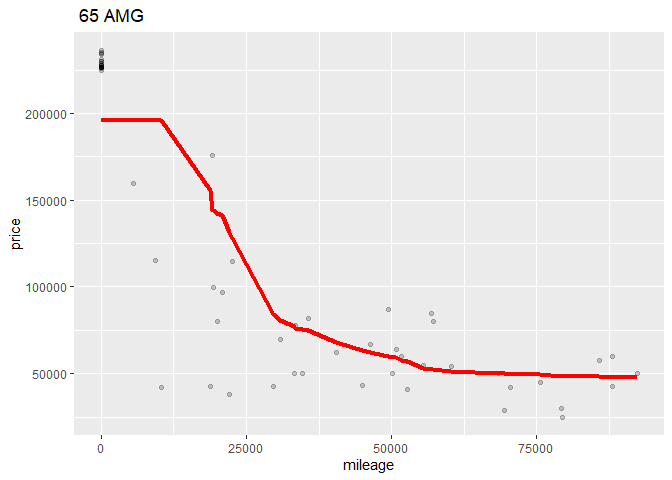
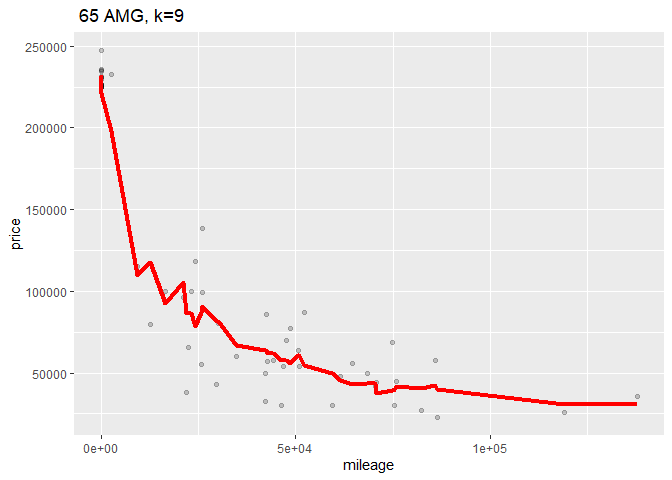
HW1

diff --git a/Assignment-1.md b/Assignment-1.md
@@ -113,20 +113,29 @@ so we get 95 percentile height of each event and overall separately:
     ## 95% 
     ## 183
 
-    ## # A tibble: 27 x 2
-    ##    event                                ninety_fifth_percentile_height
-    ##    <chr>                                                         <dbl>
-    ##  1 Athletics Women's Shot Put                                     192.
-    ##  2 Athletics Women's Heptathlon                                   189.
-    ##  3 Athletics Women's Discus Throw                                 188.
-    ##  4 Athletics Women's High Jump                                    188 
-    ##  5 Athletics Women's Triple Jump                                  187.
-    ##  6 Athletics Women's Javelin Throw                                186.
-    ##  7 Athletics Women's Hammer Throw                                 184.
-    ##  8 Athletics Women's Pole Vault                                   183 
-    ##  9 Athletics Women's 400 metres Hurdles                           181.
-    ## 10 Athletics Women's Long Jump                                    181.
-    ## # ... with 17 more rows
+    ## # A tibble: 20 x 2
+    ##    event                                       ninety_fifth_percentile_height
+    ##    <chr>                                                                <dbl>
+    ##  1 Athletics Women's Shot Put                                            192.
+    ##  2 Athletics Women's Heptathlon                                          189.
+    ##  3 Athletics Women's Discus Throw                                        188.
+    ##  4 Athletics Women's High Jump                                           188 
+    ##  5 Athletics Women's Triple Jump                                         187.
+    ##  6 Athletics Women's Javelin Throw                                       186.
+    ##  7 Athletics Women's Hammer Throw                                        184.
+    ##  8 Athletics Women's Pole Vault                                          183 
+    ##  9 Athletics Women's 400 metres Hurdles                                  181.
+    ## 10 Athletics Women's Long Jump                                           181.
+    ## 11 Athletics Women's 200 metres                                          180 
+    ## 12 Athletics Women's 400 metres                                          180 
+    ## 13 Athletics Women's 100 metres                                          180.
+    ## 14 Athletics Women's Pentathlon                                          179 
+    ## 15 Athletics Women's 4 x 400 metres Relay                                178 
+    ## 16 Athletics Women's 3,000 metres Steeplechase                           177.
+    ## 17 Athletics Women's 100 metres Hurdles                                  176 
+    ## 18 Athletics Women's 4 x 100 metres Relay                                176 
+    ## 19 Athletics Women's 800 metres                                          176.
+    ## 20 Athletics Women's 80 metres Hurdles                                   175.
 
 The 95th percentile of heights for female competitors across all
 Athletics events is 183
@@ -144,6 +153,24 @@ standard deviation
 
 partc average age of Olympic swimmers changed over time
 
+according to data frame, we can also see this trend
+
+    ## # A tibble: 46 x 3
+    ## # Groups:   year [28]
+    ##     year sex   age_avg
+    ##    <int> <chr>   <dbl>
+    ##  1  1900 M        18  
+    ##  2  1904 M        20.1
+    ##  3  1906 M        22  
+    ##  4  1908 M        23.5
+    ##  5  1912 M        27  
+    ##  6  1920 M        26  
+    ##  7  1924 F        18  
+    ##  8  1924 M        32  
+    ##  9  1928 M        23.5
+    ## 10  1932 M        19  
+    ## # ... with 36 more rows
+
 ![](Assignment-1_files/figure-markdown_strict/show%20average%20swimmers%20age%20change-1.png)
 
 The average age of Olympic swimmers increased over time. The trend look
@@ -158,81 +185,62 @@ question 4
 
 \#\#\#3 run k nearest neighbors RMSEs
 
-    ## [1] 10106.16
-
-    ## [1] 41467.12
-
-    ##    id trim subTrim condition isOneOwner mileage year  color displacement   fuel
-    ## 1 282  350    unsp       CPO          f   21929 2012  Black        3.0 L Diesel
-    ## 2 284  350    unsp       CPO          f   17770 2012 Silver        3.0 L Diesel
-    ## 3 285  350    unsp      Used          f   29108 2012  Black        3.0 L Diesel
-    ## 4 288  350    unsp       CPO          f   35004 2013  White        3.0 L Diesel
-    ## 5 289  350    unsp      Used          t   66689 2012  Black        3.0 L Diesel
-    ## 6 290  350    unsp       CPO          f   19567 2012  Black        3.0 L Diesel
-    ##   state region   soundSystem wheelType wheelSize featureCount price fold_id
-    ## 1    MA    New          unsp      unsp      unsp           82 55994       5
-    ## 2    IL    ENC       Premium     Alloy      unsp           72 60900       2
-    ## 3    VA    SoA          unsp      unsp      unsp            5 54995       1
-    ## 4    NH    New Harman Kardon      unsp      unsp           83 59988       1
-    ## 5    NJ    Mid Harman Kardon     Alloy      unsp           79 37995       5
-    ## 6    LA    WSC       Premium     Alloy      unsp           76 59977       3
-
-    ##     id   trim subTrim condition isOneOwner mileage year  color displacement
-    ## 1 1060 65 AMG    unsp       New          f     106 2015  Black        6.0 L
-    ## 2 1062 65 AMG    unsp       New          f      11 2015  Black        6.0 L
-    ## 3 1387 65 AMG    unsp      Used          f   74461 2006 Silver        6.0 L
-    ## 4 2068 65 AMG    unsp      Used          f   73415 2007   Gray        6.0 L
-    ## 5 2141 65 AMG    unsp       CPO          f   17335 2011  Black        6.0 L
-    ## 6 2310 65 AMG    unsp       New          f       7 2015  White        6.0 L
-    ##       fuel state region soundSystem wheelType wheelSize featureCount  price
-    ## 1 Gasoline    NJ    Mid     Premium     Alloy      unsp           73 235375
-    ## 2 Gasoline    CA    Pac     Premium      unsp        20           83 226465
-    ## 3 Gasoline    IL    ENC        unsp     Alloy      unsp           50  24995
-    ## 4 Gasoline    CA    Pac     Premium      unsp      unsp           17  54981
-    ## 5 Gasoline    OH    ENC        unsp      unsp      unsp           92 102500
-    ## 6 Gasoline    CA    Pac        unsp      unsp      unsp            1 230860
-    ##   fold_id
-    ## 1       4
-    ## 2       3
-    ## 3       4
-    ## 4       2
-    ## 5       1
-    ## 6       4
-
     ## Warning: executing %dopar% sequentially: no parallel backend registered
 
     ##          k      err  std_err
-    ## result.1 1 13428.55 396.8497
-    ## result.2 2 11762.81 349.7512
-    ## result.3 3 11266.65 491.8329
-    ## result.4 4 10878.47 483.8033
-    ## result.5 5 10505.94 458.2787
-    ## result.6 6 10281.55 379.8596
+    ## result.1 1 13695.15 976.3383
+    ## result.2 2 12003.51 600.0563
+    ## result.3 3 11125.18 747.5780
+    ## result.4 4 10874.85 666.0187
+    ## result.5 5 10761.74 758.4485
+    ## result.6 6 10544.60 723.7011
 
-    ##          k      err  std_err
-    ## result.1 1 31703.17 2303.893
-    ## result.2 2 25366.52 1647.230
-    ## result.3 3 22964.93 1960.314
-    ## result.4 4 21794.20 2133.844
-    ## result.5 5 21275.44 2351.496
-    ## result.6 6 20868.46 2252.027
+    ##          k      err   std_err
+    ## result.1 1 27807.78 1541.3342
+    ## result.2 2 23945.93  944.0933
+    ## result.3 3 22235.61 1347.8117
+    ## result.4 4 22000.99 1507.6568
+    ## result.5 5 21958.50 1545.5383
+    ## result.6 6 21585.40 1747.2266
 
 \#\#\#4 the relationship for RMSE and k，can find optimal k（line or
 point）
-![](Assignment-1_files/figure-markdown_strict/unnamed-chunk-6-1.png)![](Assignment-1_files/figure-markdown_strict/unnamed-chunk-6-2.png)
-The optimal k for 350 is 15, and the optimal k for 65 AMG is 22
+![](Assignment-1_files/figure-markdown_strict/unnamed-chunk-8-1.png)![](Assignment-1_files/figure-markdown_strict/unnamed-chunk-8-2.png)
+Then we try to find the optimal k for each trim
 
-\#\#\#5 model for each k (for each trim) \#\#6 Which trim have bigger
-optimal k? why?
+so the optimal k for trim 350 and its RMSE is:
 
-    ## [1] 11843.12
+    ## [1] 17
 
-![](Assignment-1_files/figure-markdown_strict/unnamed-chunk-7-1.png)
+    ## [1] 9734.978
 
-    ## [1] 39823.98
+so the optimal k for trim 65\_AUG and its RMSE is:
 
-![](Assignment-1_files/figure-markdown_strict/unnamed-chunk-7-2.png)
+    ## [1] 7
 
-65 AMG has a bigger optimal value of k.
+    ## [1] 20714.21
 
-Because 65 AMG trim has more data than 350 trim level.
+then we fit the model to the training set and make predictions on your
+test set
+
+so the out-of-sample root mean-squared error (RMSE) for trim 350 is and
+its fitting graph is:
+
+    ## [1] 9045.677
+
+![](Assignment-1_files/figure-markdown_strict/unnamed-chunk-13-1.png)
+
+so the out-of-sample root mean-squared error (RMSE) for trim 350 is and
+its fitting graph is:
+
+    ## [1] 20179.33
+
+![](Assignment-1_files/figure-markdown_strict/unnamed-chunk-16-1.png)
+
+350 trim has a bigger optimal value of k.
+
+Because 65 AMG trim has smaller data size compare to 350 trim level.
+fewer observations.On the other hand, smaller estimation variance
+generally requires a less complex model, so we need set k smaller to
+contain various noises data.And when sample size is smaller, our setting
+k progress would be affected.
